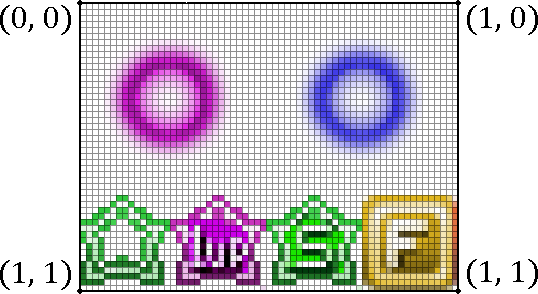
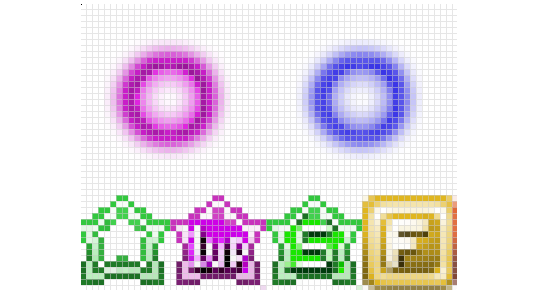
add images to uv concept, fix some mistakes

Changed region(s): [[0.0, 0.0, 1.0, 1.0], [0.9517, 0.0, 1.0, 0.1224], [0.0, 0.8878, 0.0595, 0.9796]]

diff --git a/js/ecl/ins-table.js b/js/ecl/ins-table.js
@@ -230,7 +230,7 @@ Object.assign(ANM_INS_DATA, {
   'delete': {sig: '', args: [], desc: "Destroys the animation."},
   'static': {
     sig: '', args: [], desc: `
-    Freezes the texture until it is destroyed externally.
+    Freezes the animation until it is destroyed externally.
 
     [tiphide]
     Any interpolation instructions like [ref=anm:posTime] will no longer advance.
@@ -283,12 +283,11 @@ Object.assign(ANM_INS_DATA, {
 Object.assign(ANM_INS_DATA, {
   'jmp': {
     sig: 'SS', args: ['dest', 't'], desc: `
-    Jumps to offset \`dest\` from the function start and sets time to \`t\`.  \`thanm\` accepts a label name for \`dest\`.
+    Jumps to byte offset \`dest\` from the script's beginning and sets the time to \`t\`.
+    \`thanm\` accepts a label name for \`dest\`.
 
     [tiphide]
     [wip=2]Chinese wiki says some confusing recommendation about setting a=0, can someone explain to me?[/wip]
-
-    [wip]What is \`dest\` relative to? Beginning of current script?[/wip]
     [/tiphide]
   `},
   'jmpDec': {
@@ -465,11 +464,11 @@ Object.assign(ANM_INS_DATA, {
     or [ref=anm:textureCircle] causes it to pull from [uv coords outside the \`(0,0)-(1,1)\` rectangle](#s=anm/concepts&a=uv-coords).
 
     [tiphide]
-    | Mode | D3D constant | Meaning | Layman's terms |
-    | ---  | --- | --- | --- |
+    | Mode | D3D constant | Meaning |
+    | ---  | --- | --- |
     | 0    | \`D3DTADDRESS_WRAP\` | texture repeats infinitely |
     | 1    | \`D3DTADDRESS_CLAMP\` | pixels at the edge extend to infinity |
-    | 2    | \`D3DTADDRESS_MIRROR\` | like 0 every other image is mirrored |
+    | 2    | \`D3DTADDRESS_MIRROR\` | like 0 but every other image is mirrored |
     [/tiphide]
   `},
   'originMode': {
@@ -638,7 +637,7 @@ Object.assign(ANM_INS_DATA, {
     | \`v\` | Center | Top  | Bottom |
     [/tiphide]
   `},
-  'anchorOffset': {sig: 'ss', args: ['dx', 'dy'], desc: `
+  'anchorOffset': {sig: 'SS', args: ['dx', 'dy'], desc: `
     Nudge the anchor point of the sprite right by \`dx\` pixels and down by \`dy\` pixels in the source image.
     Important for asymmetric bullet sprites because the anchor position is the center point for rotation and scaling.
 
@@ -676,8 +675,20 @@ Object.assign(ANM_INS_DATA, {
 
     [tiphide]For some reason, this also does [ref=anm:colorMode](1), which can be a mild inconvenience.[/tiphide]
   `},
-  'uVelTime': {sig: 'SSf', args: ['t', 'mode', 'vel'], wip: 1, desc: `[wip]Based on the code this is clearly a time version of [ref=anm:uVel], but it didn't work when I tested it...[/wip]`},
-  'vVelTime': {sig: 'SSf', args: ['t', 'mode', 'vel'], wip: 1, desc: `[wip]Based on the code this is clearly a time version of [ref=anm:vVel], but it didn't work when I tested it...[/wip]`},
+  'uVelTime': {sig: 'SSf', args: ['t', 'mode', 'vel'], desc: `
+    Over the next \`t\` frames, changes [ref=anm:uVel] to the given value using interpolation mode \`mode\`.
+
+    [tiphide]
+    Remember that [ref=anm:uVel] is scroll *velocity,* not position.
+    [tiphide]
+  `},
+  'vVelTime': {sig: 'SSf', args: ['t', 'mode', 'vel'], desc: `
+    Over the next \`t\` frames, changes [ref=anm:vVel] to the given value using interpolation mode \`mode\`.
+
+    [tiphide]
+    Remember that [ref=anm:vVel] is scroll *velocity,* not position.
+    [tiphide]
+  `},
   'rotateTime2D': {
     sig: 'SSf', args: ['t', 'mode', 'rz'], desc: `
     A compact version of [ref=anm:rotateTime] that only interpolates the z rotation.
@@ -702,7 +713,8 @@ Object.assign(ANM_INS_DATA, {
     -->
     [wip]I am too lazy to document this right now.[/wip]  [See the chinese wiki](https://thwiki.cc/脚本对照表/ANM/第四世代).
   `},
-  'posTime2D': {sig: 'SSff', args: ['t', 'mode', 'x', 'y'], wip: 1, desc: `
+  'posTime2D': {
+    sig: 'SSff', args: ['t', 'mode', 'x', 'y'], wip: 1, desc: `
     Looks like a 2D version of [ref=anm:posTime]?  ([wip]Is that all? Seems pointless[/wip])
   `},
 });

diff --git a/css/main.less b/css/main.less
@@ -39,7 +39,8 @@ body {
 }
 
 a {
-  color: lightblue;
+  color: @link-color;
+  &:hover { color: @link-color-hover; }
 }
 
 code, instr {

diff --git a/static/content/anm/concepts.md b/static/content/anm/concepts.md
@@ -44,22 +44,20 @@ Numerous instructions change the region of coordinates in the texture image file
 
 These instructions operate on uv coordinates.  These are fractional coordinates into the sprite's original image file.  `(u, v) = (0, 0)` lies at the very top left corner of the top left pixel.  `(u, v) = (1, 1)` lies at the very bottom right corner of the bottom right pixel.  In the image below, the little F item occupies the rectangle from `(3/4, 2/3)` to `(1, 1)` in uv-space.
 
-[c=red]TODO: IMAGE: zoomed in image (big pixels) annotating uv 0,0 and 1,1[/c]
+<img src="./content/anm/img/concept-uv-corners.png">
 
 Now let's say we start with this little F as our sprite, and then use [ref=anm:uVel] with a negative argument.  This will subtract something from u every frame, causing other images in the texture to be displayed.
 
 [code]
 [ref=anm:sprite](littleF);
-[ref=anm:uVel](-0.08333333333);  // 1/120
+[ref=anm:uVel](-0.008333333333);  // 1/120
 [/code]
 
-[c=red]TODO: IMAGE: scrolling in game[/c]
+<img src="./content/anm/img/concept-uv-scroll-x.gif">
 
-Observe how, at the left end of the image, it *wraps back* to the F.  This is because **the default behavior of scrolling is to assume that the image repeats infinitely.**  This has many uses, such as making color gradients move along Marisa's laser.  You can also pull from a large region in uv space using [ref=anm:uvScale]; similar behavior is provided by [ref=anm:textureCircle] which can pull from a large vertical region in uv space that includes many copies of the image (for e.g. those "Spell attack" text circles).
+Observe how, at the left end of the image, it *wraps back* to the F.  This is because **the default behavior of scrolling is to assume that the texture repeats infinitely.**  This has many uses, such as making color gradients move along Marisa's laser.  You can also pull from a large region in uv space using [ref=anm:uvScale]; similar behavior is provided by [ref=anm:textureCircle] which can pull from a large vertical region in uv space that includes many copies of the image. This is used for e.g. those circles of the "Spell attack" text.
 
-Notice how I said "default behavior."  Using [ref=anm:scrollMode], you can configure this.
-
-[c=red]TODO: SCROLL MODES[/c]
+Notice how I said "default behavior."  Using [ref=anm:scrollMode], you can configure this.  In particular, you can choose to have every other periodic copy be mirrored.
 
 ## Layers and `on_draw`
 

diff --git a/static/content/anm/stages-of-rendering.md b/static/content/anm/stages-of-rendering.md
@@ -162,4 +162,8 @@ At this point, all remaining rendering occurs by drawing directly to the backbuf
 * How does screen shake work?
 * The pause blur in [game=14]DDC[/game] onwards is basically a screenshot of the game region overlayed over the original, but I'm not when this screenshot is taken, or when it is drawn.  (you'd think something this special would have a dedicated `on_draw` like all of the scripts mentioned above, but... it doesn't)
 
+### How'd you make those images, anyway?
+
+For the curious (and also because I kept screwing it up and had to redo it), I recorded the steps to obtain the relevant screenshots (along with the raw, unedited images) <a href="./content/anm/img/pipeline-raw-images.zip" download>here (ZIP archive)</a>.
+
 [/requireEclmap]
